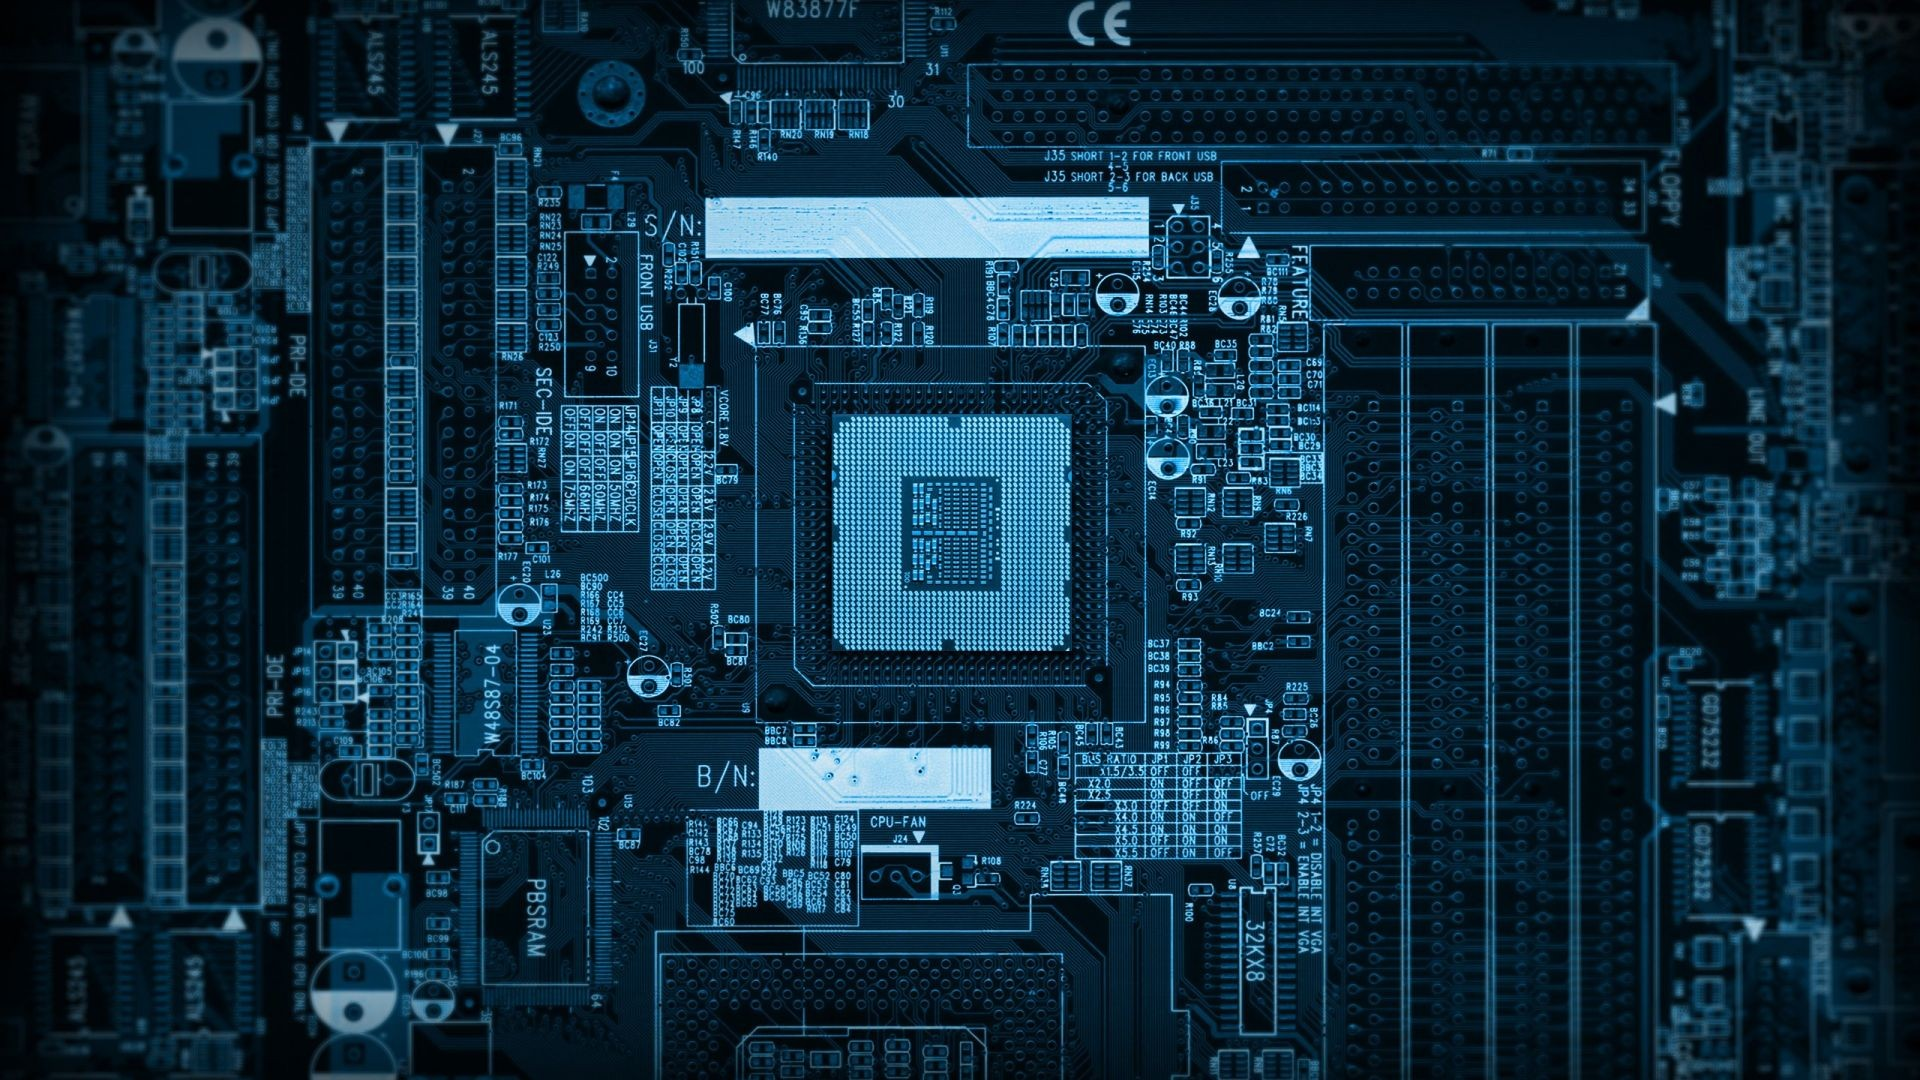
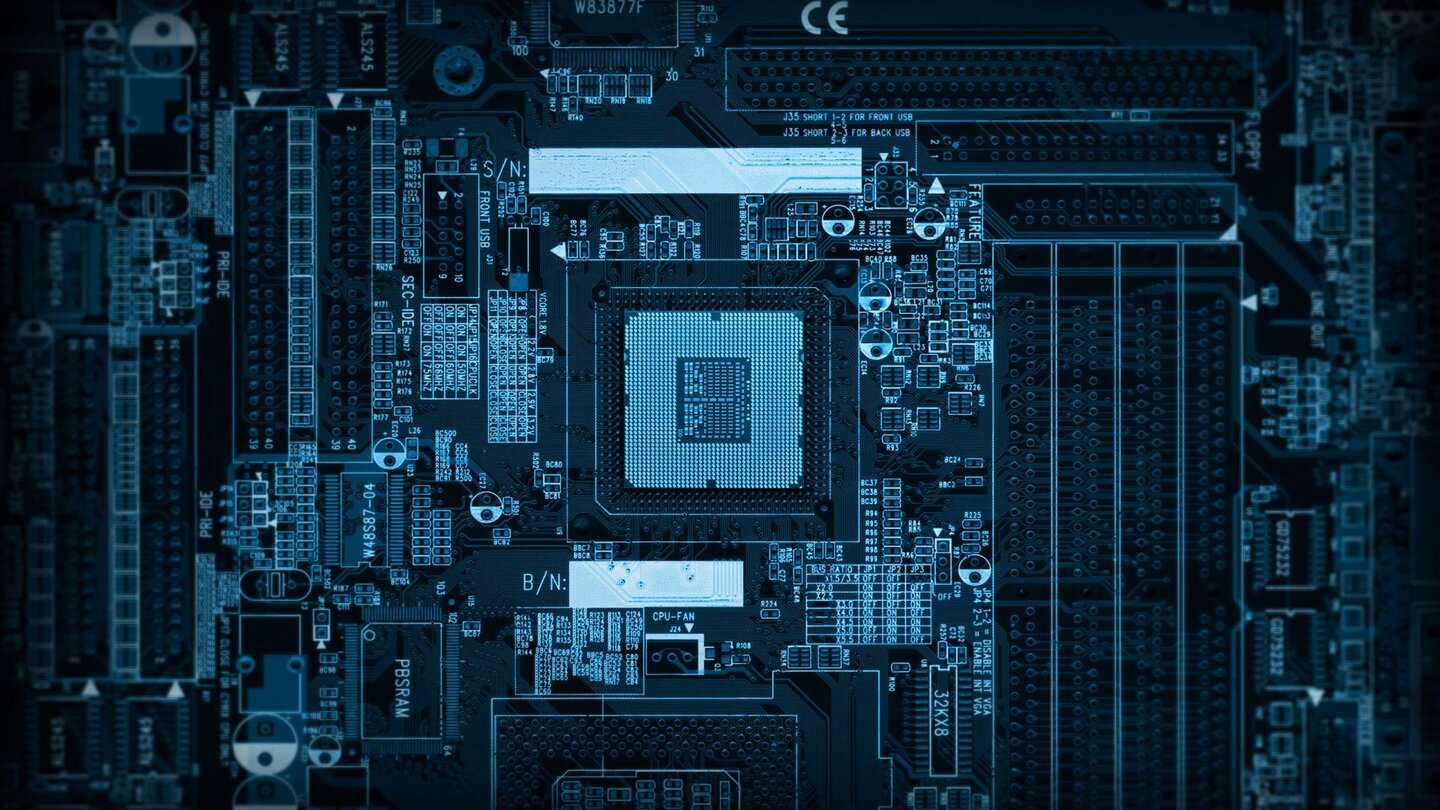
Minor Changes
Remove CSS validator link (not linking)
Resized home-bg.jpg

Changed region(s): [[0.3438, 0.3704, 0.375, 0.4321], [0.3438, 0.4938, 0.375, 0.5247]]

diff --git a/index.html b/index.html
@@ -36,7 +36,7 @@
       </figure> 
 
       <section class="quote">
-        <h4>neural-photo</h4>
+        <h4 id="cover">neural-photo</h4>
         <img src="images/quote-image.jpg" alt="neural pathways" class="pathways">
       </section> 
 
@@ -48,13 +48,6 @@
         <li><a href="http://github.com/spsteady" target="_blank" class="social github">Github</a></li>
       </ul>
       <p class="copyright">&copy; 2020, Steven Steady</p>
-      <p>
-        <a href="http://jigsaw.w3.org/css-validator/check/referer">
-            <img style="border:0;width:88px;height:31px"
-                src="http://jigsaw.w3.org/css-validator/images/vcss"
-                alt="Valid CSS!" />
-        </a>
-    </p>
     </footer>
   </body>
   </html>

diff --git a/styles.css b/styles.css
@@ -150,6 +150,10 @@ header .experience-image {
   border-color: #ff99ff;
 }
 
+#cover {
+  display: none;
+}
+
 .about-section {
   margin: 25px;
   margin-top: 2px;
